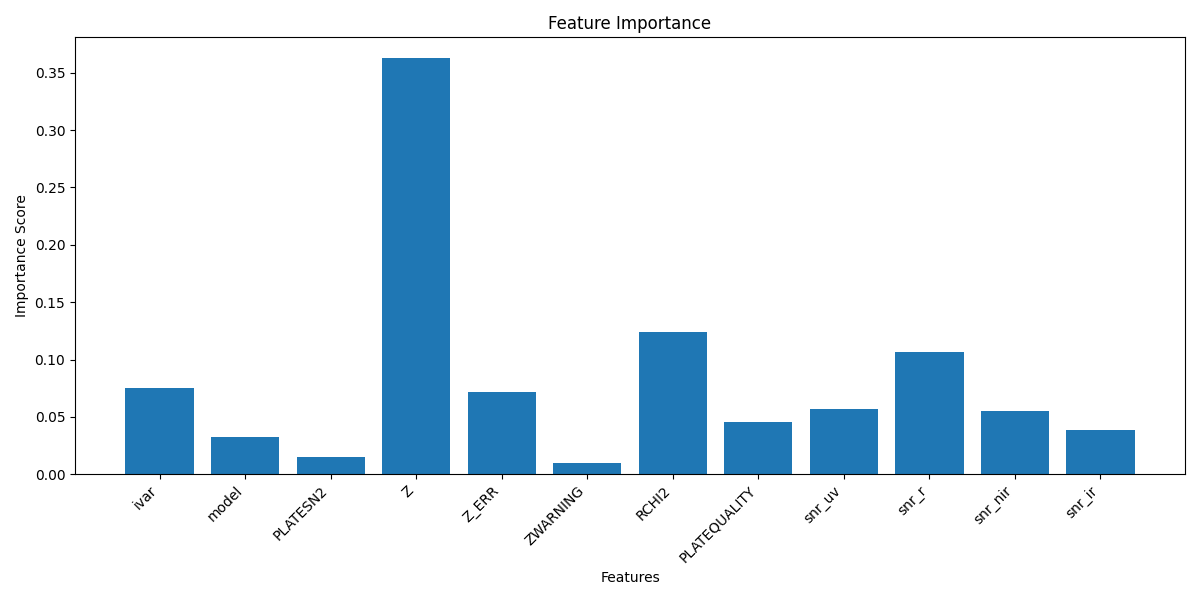
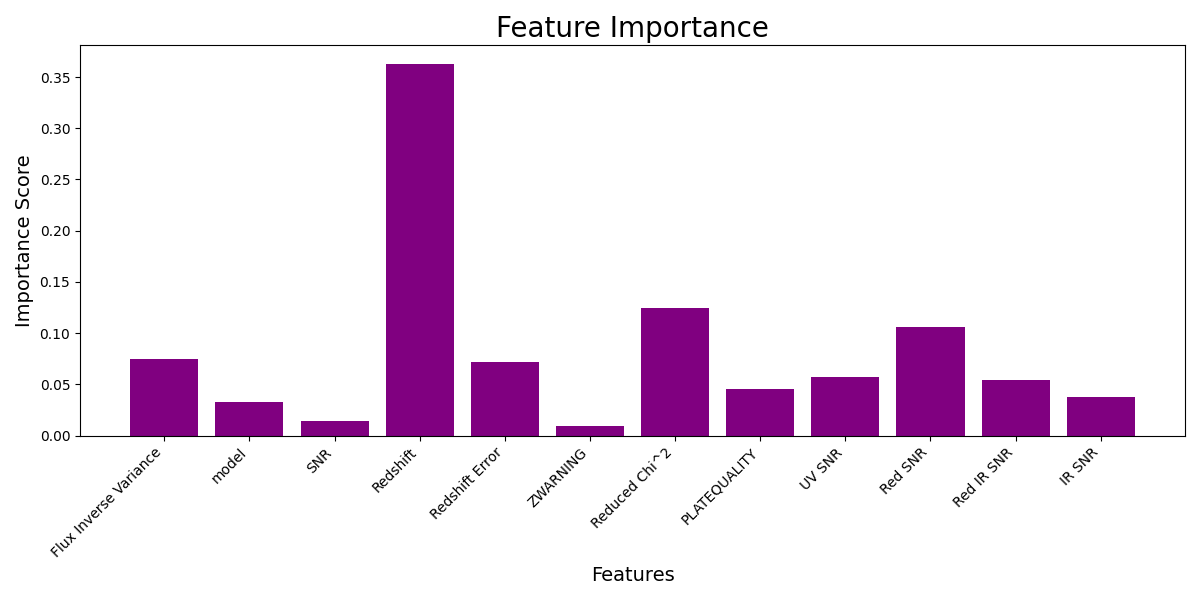
new feature importance figure

diff --git a/model/gradient_attribution.py b/model/gradient_attribution.py
@@ -20,6 +20,19 @@ dataset = SpectraDataset(file_paths)
 dataloader = DataLoader(dataset, batch_size=32, collate_fn=collate_fn, shuffle=False)
 
 def compute_feature_importance(model, dataloader):
+    """
+    Compute the feature importance using gradient attribution method.
+    This method computes the gradient of the model's output with respect to the input features.
+    The absolute value of the gradient is averaged over all samples to get the feature importance.
+
+    Inputs:
+        model: model to check feature importance for
+        dataloader: dataloader to load the data
+
+    Returns:
+        feature_importance: array of feature importance scores
+    """
+    
     feature_importance = None
     num_samples = 0
     
@@ -43,9 +56,9 @@ def compute_feature_importance(model, dataloader):
 # Compute feature importance
 feature_importance = compute_feature_importance(model, dataloader)
 
-feature_names = ['flux', 'loglam', 'ivar', 'model','PLATESN2', 'Z', 
-                 'Z_ERR', 'ZWARNING', 'RCHI2', 'PLATEQUALITY', 'snr_uv', 
-                 'snr_r', 'snr_nir', 'snr_ir']
+feature_names = ['flux', 'loglam', 'Flux Inverse Variance', 'model','SNR', 'Redshift', 
+                 'Redshift Error', 'ZWARNING', 'Reduced Chi^2', 'PLATEQUALITY', 'UV SNR', 
+                 'Red SNR', 'Red IR SNR', 'IR SNR']
 
 final_features = []
 for f in feature_names:
@@ -53,10 +66,10 @@ for f in feature_names:
 
 # Plot feature importance
 plt.figure(figsize=(12, 6))
-plt.bar(feature_names[2:], final_features[2:])
-plt.title('Feature Importance')
-plt.xlabel('Features')
-plt.ylabel('Importance Score')
+plt.bar(feature_names[2:], final_features[2:], color = 'purple')
+plt.title('Feature Importance',fontsize=20)
+plt.xlabel('Features',fontsize=14)
+plt.ylabel('Importance Score', fontsize=14)
 plt.xticks(rotation=45, ha='right')
 plt.tight_layout()
 plt.savefig('feature_importance.png')

diff --git a/model/README.md b/model/README.md
@@ -1,1 +1,3 @@
 # Model README
+Folder for the Model elements of StarDustAI. Including details on baseline models, our models, and interpretability details.
+
